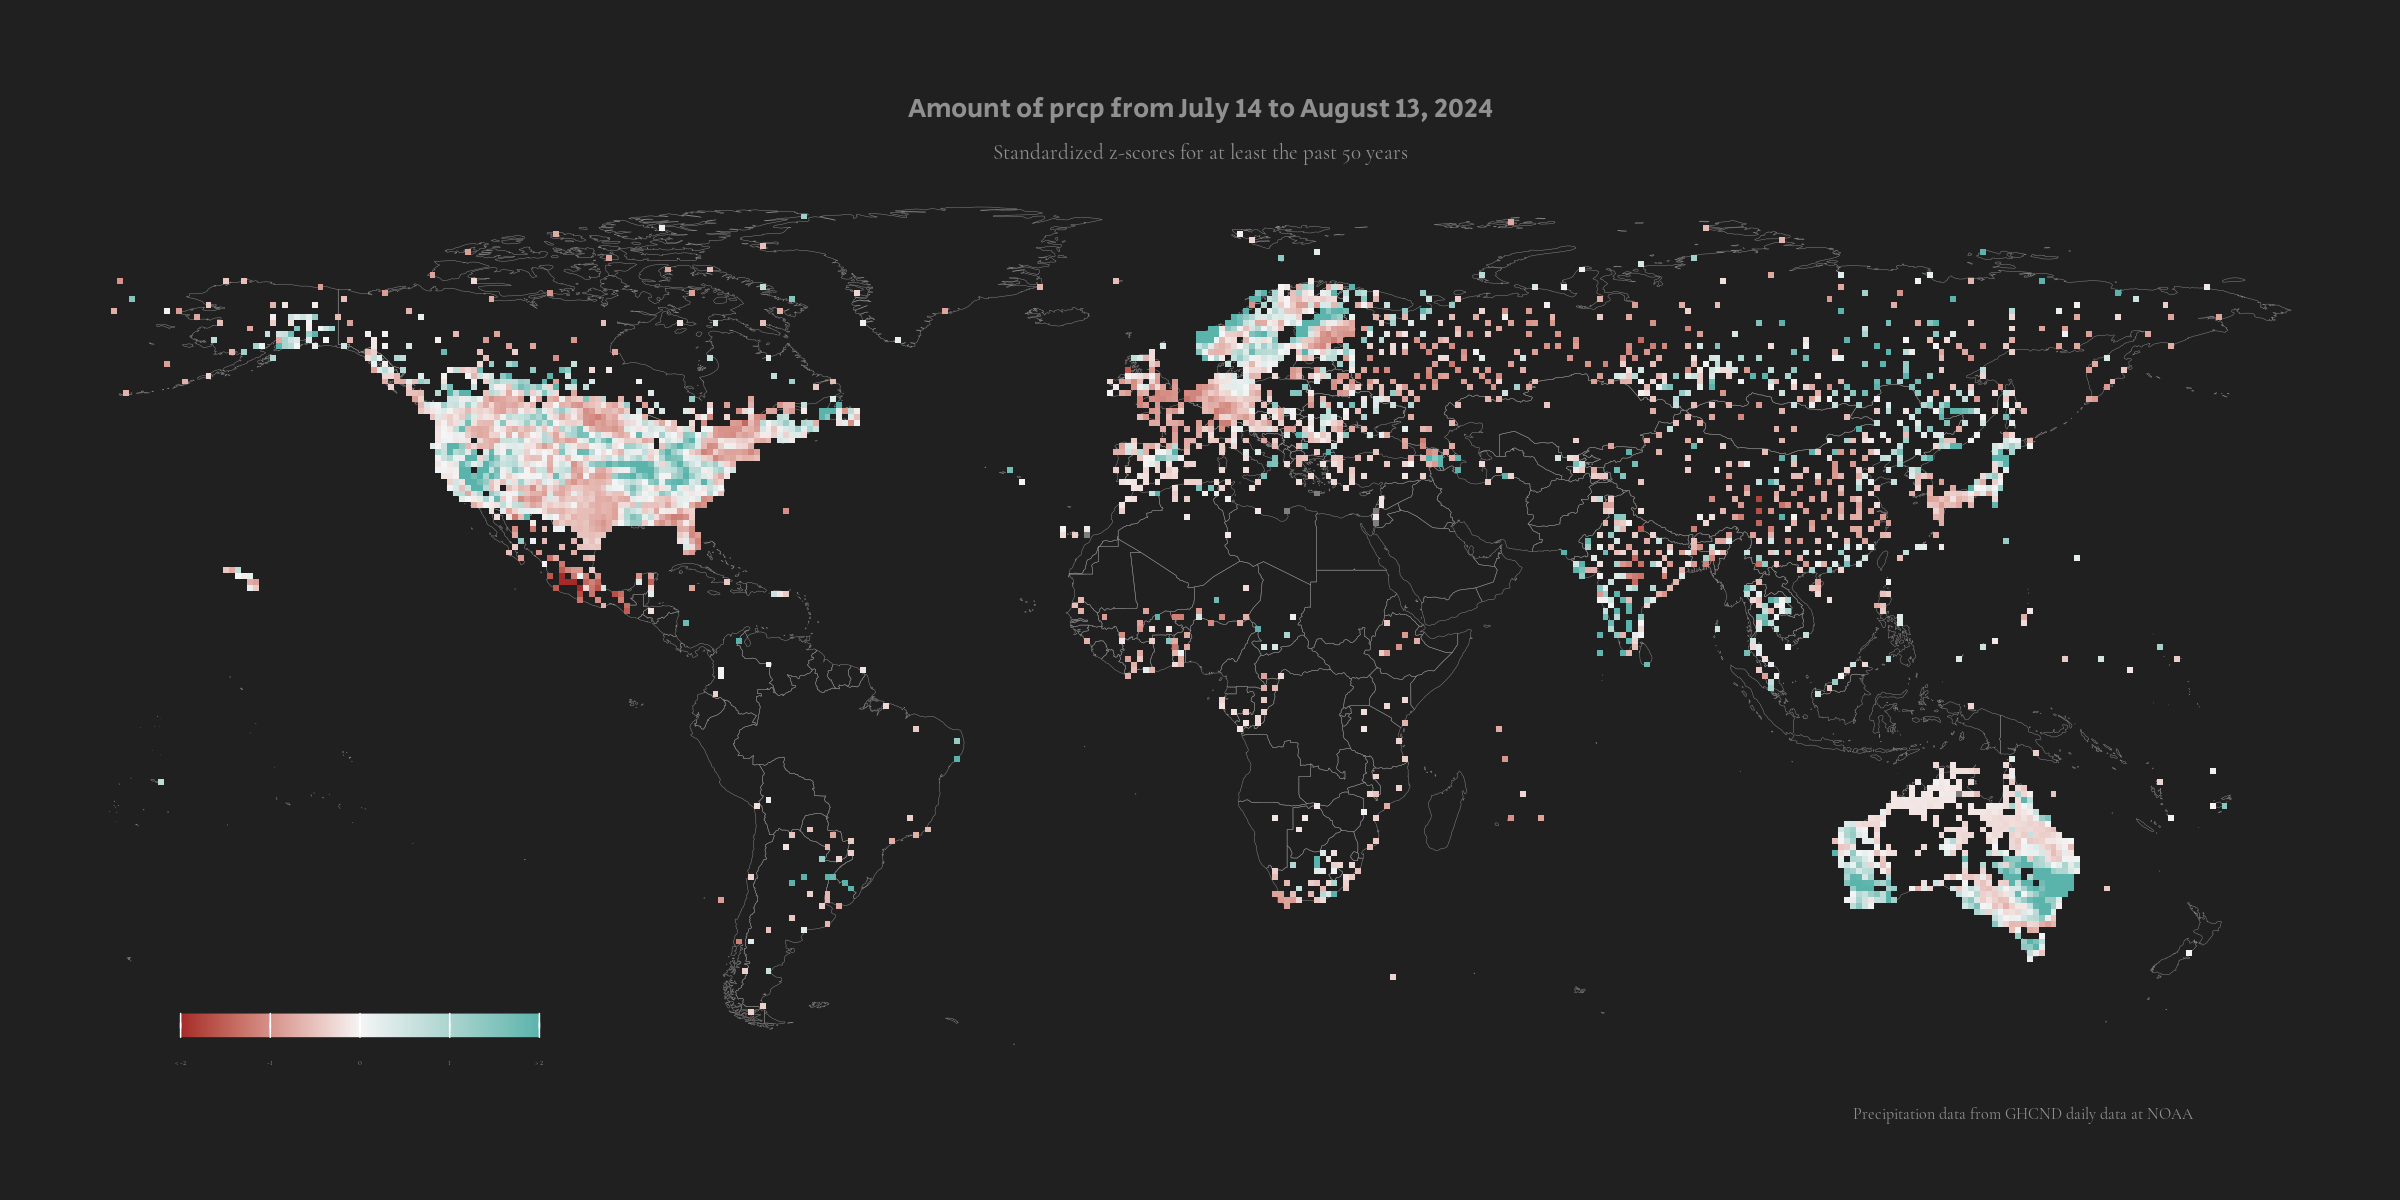
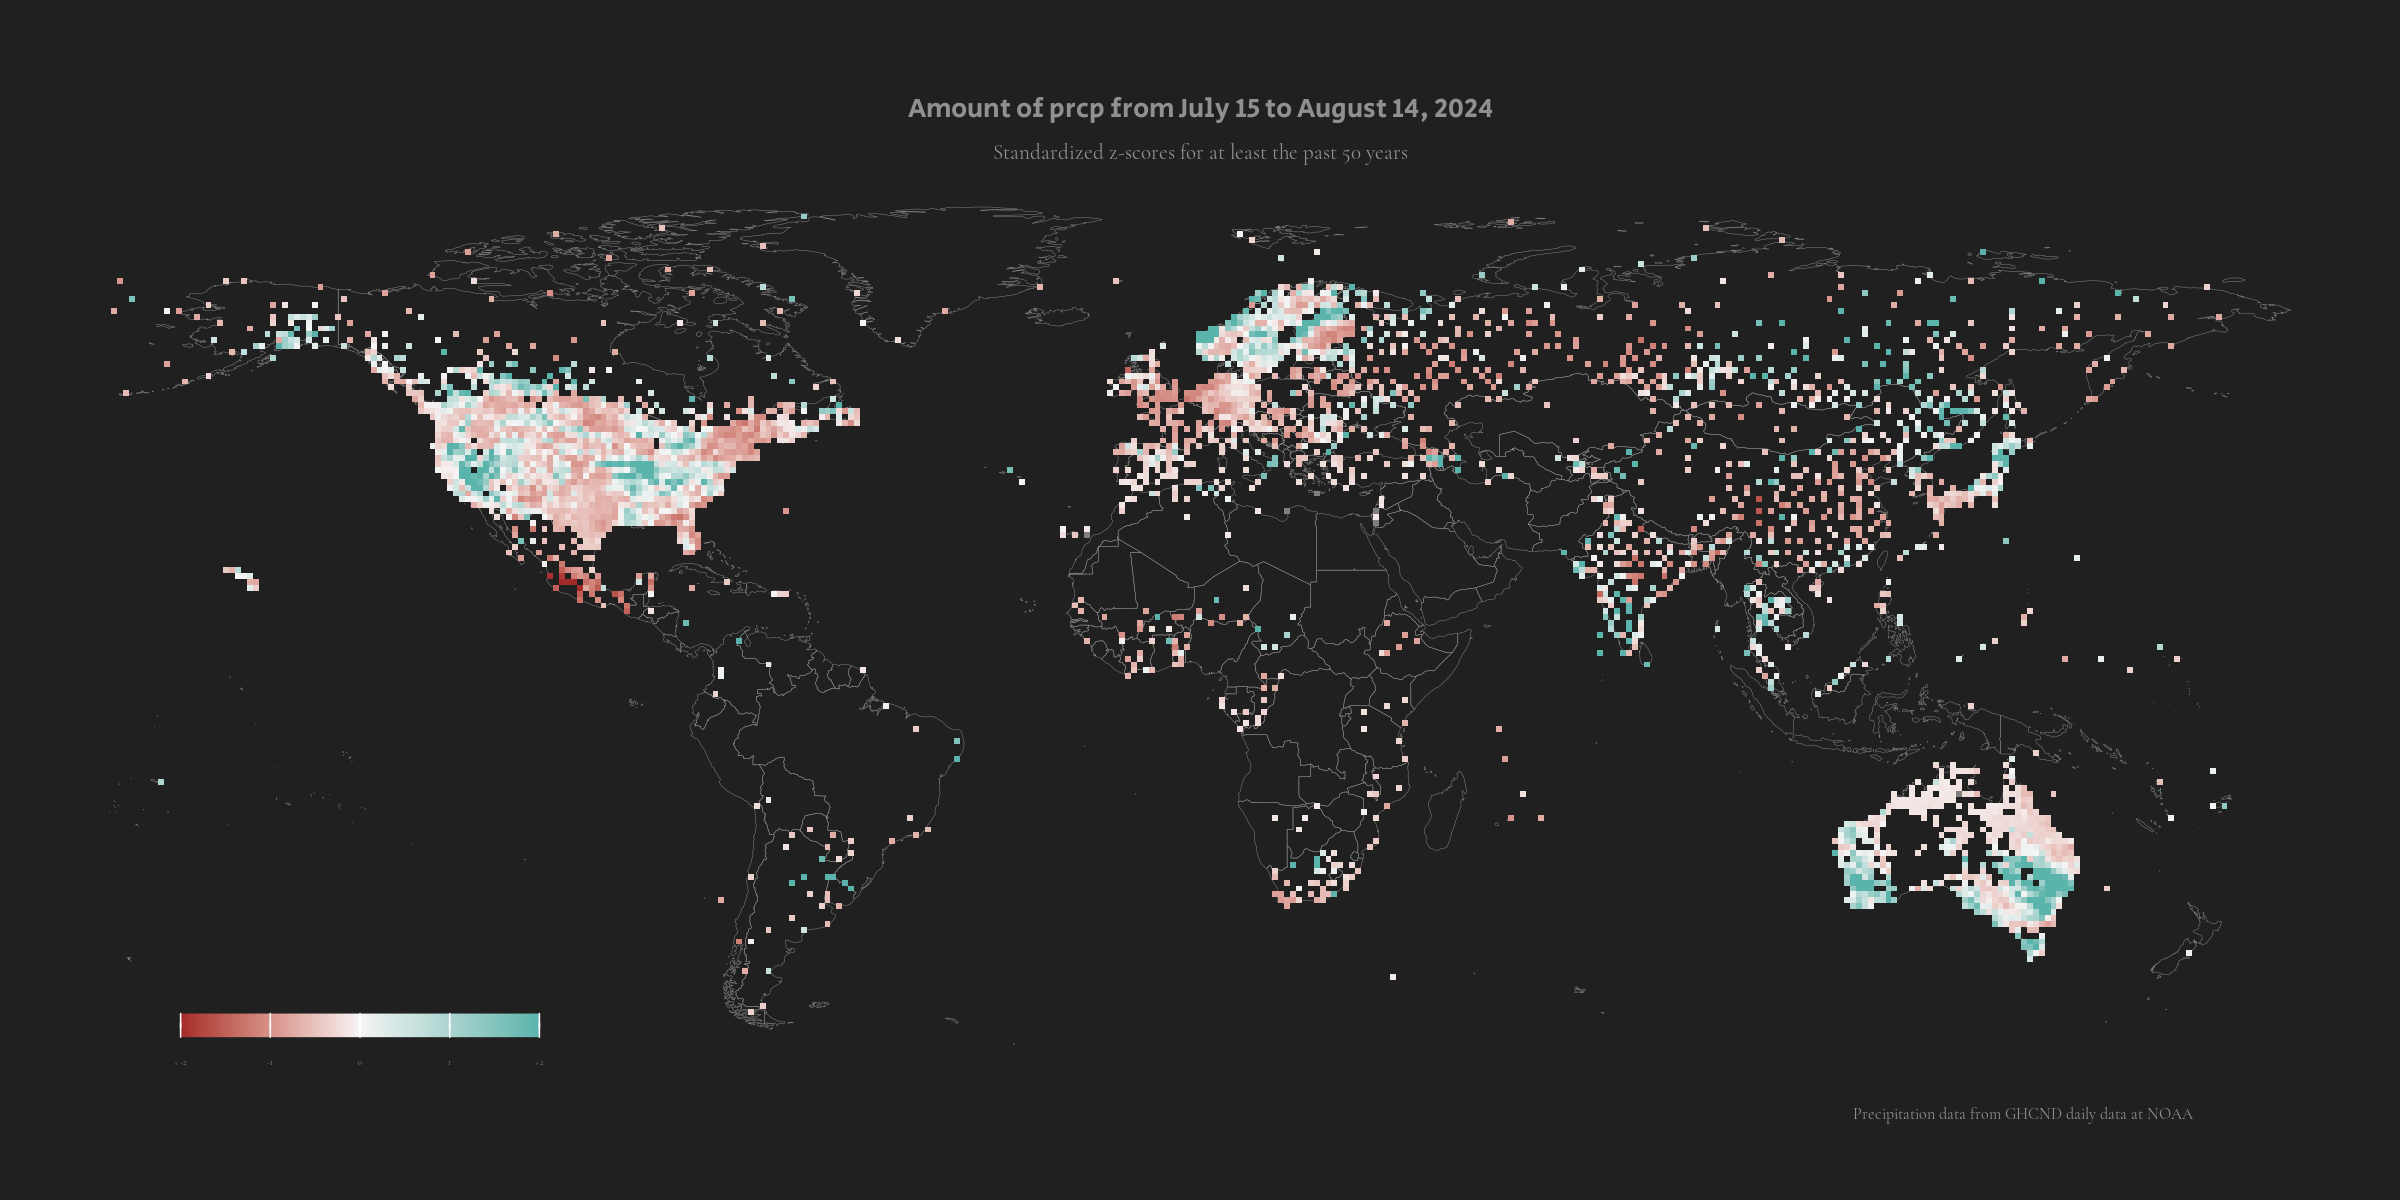
new day's rendering

diff --git a/index.html b/index.html
@@ -51,7 +51,7 @@ ul.task-list li input[type="checkbox"] {
 <div class="column-screen">
 <p><img src="visuals/heatmap_world_drought.png" class="img-fluid"></p>
 </div>
-<p>Last updated August 18, 2024.</p>
+<p>Last updated August 19, 2024.</p>
 <p>This <a href="https://esbenlykke.github.io/drought_index/">site</a> is part of a project to pratice reproducible research developed by <a href="mailto:%20eskovgaard@health.sdu.dk">Esben Lykke</a>.</p>
 
 </main>
